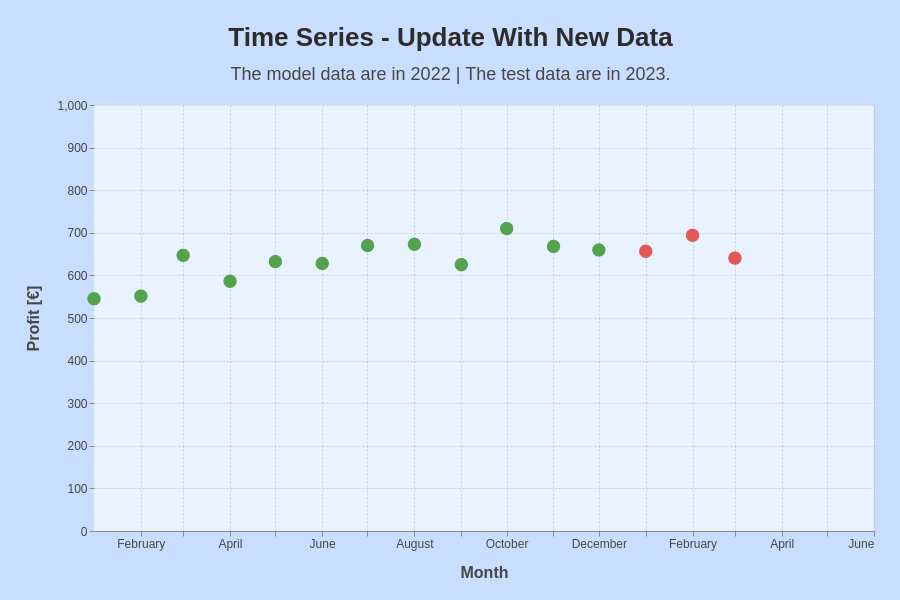
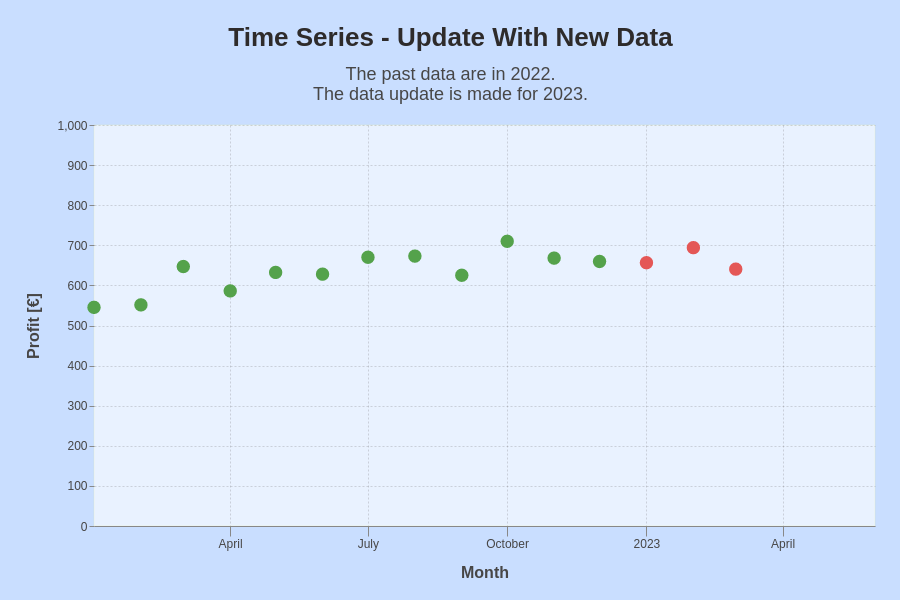
regr

diff --git a/md/28_Timeseries/time_series_30_regression.md b/md/28_Timeseries/time_series_30_regression.md
@@ -1,194 +1,70 @@
 ---
 layout: 20_python
-title: Time Series
+title: Time Series Regression
 permalink: /time_series_regression
 ---
 
-# Altair: Time Series - Lines
+# Time Series - Linear Regression
 
-A standard use case in accounting are the values of accounts over time. You see here three accounts - A, B and C - with artificial data (incl. trend and Gaussian noise)
+The task here is to **assess a regression model using with test data**. Particularly for the use case when at the beginning of a month the data of the previous month are available.
 
+The partiuclar problem here is to **compute the model only with the model data**. Further, the chart should clearly show which data belong to the model and which belong to the test.
+
+
+<br>
 <center>
-{% include images/image.html imagePath = "../assets/images/img_blog/img_altair/Timeseries.png" imageCaption =  ""%}
+{% include images/image.html imagePath = "../assets/images/img_blog/img_altair/TimeseriesUpdatesRegression.png" imageCaption =  ""%}
+<br><br><b>
+A Linear Regression was added to the 'model' data of the time series leading to a forecast. Afterwards, the chart was updated with test data.
+</b><br>
 </center>
+<br>
 
-The chart is based on a theme such that all charts have the same background, grid line width or dash, etc..
+## Solution idea and some details 
+
+### Create file with aggregated, monthly data
+
+The solution here is essentially an extension of the previous example on [Time Series Update](time_series_updates).
+The chart was re-used adding
+- the regression
+- a text chart to display a statistical parameter.
 
 
-### Define a 'Theme'
+### Regression
 
-Using a theme can make your main coding much more concise. A theme is a collection of your choice of recurring chart conigurations.
-You can further change the look of all your charts easily by just making the change once in your theme.
+For the regression, the library 'optimize.curve.fit' of Scipy was used. 
+For details, please go to [Scipy - Optimize Curve Fit](https://docs.scipy.org/doc/scipy/reference/generated/scipy.optimize.curve_fit.html).
 
-You can outsource the theme to an extra file. 
-This extra file essentially contains a function. This function returs a 'configuration'. 
+Cleary, the library has to be imported. This is the only import needed here for the regression.
+>
+    from scipy.optimize import curve_fit
+
+The decisive call is to the function 'curve_fit'
 
 >
-    def myTheme():
-    ...
-    return {
-        'config': {
-            "background": 'white', 
-                    },
-    }
+    popt, pcov2 = curve_fit(LinearFunction, dfTL.X, dfTL.Y)
 
-However, you need to be careful about what to put into a theme, because you might not want all your chart to be identical. You can overwrite though a property set in the theme for your specific chart.
-
-
-### Using a 'Theme'
-
-You need to register and enable the theme such that it affects your chart.
+In this approach, you can freely define a function for the fit. For the linear fit, the function is quite simple.
 
 >
-    from myTheme_file import myTheme
-    alt.themes.register('myTheme', myTheme)
-    alt.themes.enable('myTheme')
+    def LinearFunction(x, a0, a1):
+        y = a0 + a1 * x
+        return y
 
-### Long Format (melt)
 
-I had created a file with time series before and had saved it as a csv file.
-After reading the data into a dataframe, it needs to be converted from wide format to long format.
+The fitting parameters can be obtained from the exported parameter of the optimization, i.e. 'popt'.
 
 >
-    df = df.reset_index().melt(id_vars="Month", var_name="Type", value_name="Measurement")
+    fittingPara = {}
+    fittingPara["a0"] = round(popt[0], 3)
+    fittingPara["a1"] = round(popt[1], 3)   
 
-Altair does not accept the index to be set, thus reset the index during this melt operation.
 
-
-### Height and Width
-
-I sometimes want to change the ratio of the chart depending on the content. This setting worked quite well.
+You get to the forecast using these parameters.
 
 >
-    chart = chart.properties(
-        height=600,   
-        width=900, 
-        autosize=alt.AutoSizeParams(
-            type='fit',
-            contains='padding'
-        ),
-    )    
+    fRL[column] = LinearFunction(dfRL.XF, *popt)
 
 
-### Title and Subtitle
-
-You can specify the text of the title and the subtitle in the chart properties. The formatting of them might mostly go to the theme.
-
->
-    subtitle = ["Subtitle1", "Subtitle2"]
-    title={
-      "text": title, 
-      "subtitle": subtitle,
-    }, 
-
-Great about subtitles: you can have more than one row!
-
-Depending on the specific text for the chart, the title or subtitle often needs to be smaller or larger.
-
->
-    myChart = myChart.configure_title(
-        fontSize=26,
-        subtitleFontSize=18,
-    )    
-
-Issue noted: When an automatically generated subtitle gets too long, the chart is not shown. 
-
-
-### Format the X-Axis for Month
-
-You can choose among different formats. yearmonth, for instance, displays both year and month.
-The data must be in a suitable format, e.g. 2022-01-01. 
-The axis can be scaled using a start date and an end date. 
-
->
-    alt.X(
-        'yearmonth(Month):T', 
-        title="Month",
-        scale=alt.Scale(domain=(startDate, endDate)),
-        ),
-
-
-### Format the Y-Axis
-
-On the y-axis, most importantly you might set manually the scale and the number of ticks.
-
->
-    alt.Y('Measurement:Q', 
-            title="Y-Axis",
-            axis=alt.Axis(tickCount=10),
-            scale=alt.Scale(domain=(0, 2000)),
-            ), 
-
-### Format the Coloring
-
-On the coloring, you might want to set the colors of your choice, e.g. you might want Account_A to be blue. You can enforce the sequence by sort.
-
->
-    alt.Color('Type:O', title="Type", 
-        sort=df.columns.values,
-        scale={"range": [
-            "blue"],
-            "red"],
-            "green"] 
-            ]
-            },
-        ),   
-
-
-The sorting is done along the columns of the dataframe.
-
-### Format the Lines, Points
-
-Formatting of the lines is directly done as parameters of the mark_line command.<br>
-You can set there the opacity level of the line, which softens the colors.<br>
-You can change the line from solid to dashed.<br>
-You can configure a point for the data.
-
->
-    mark_line(
-        opacity=0.85,
-        strokeDash=[4,2],
-        point=alt.OverlayMarkDef(
-            filled=False, 
-            size=80, 
-            fill='white',   
-            ), 
-
-
-### Change the line chart to an area chart
-
-
-All you need to do is to change the decisive command from **mark_line** to **mark_area**.
-
->
-    myChart = alt.Chart(df).mark_area(
-        opacity=0.55,
-        strokeDash=[4,2],
-        point=alt.OverlayMarkDef(
-        filled=False, 
-        size=80, 
-        fill='white',            
-        ), 
-    ).encode(...)
-
-
-All the other coding can remain. There are some specific line features though and some specific area features.
-
-<center>
-{% include images/image.html imagePath = "../assets/images/img_blog/img_altair/TimeseriesArea.png" imageCaption =  ""%}
-</center>
-
-
-The advantage of an area charge is particularly showing implicitely the sum when stacking the areas on top of each other.
-This stacking is done when setting the stack parameter to true.
-
->
-    alt.Y('Measurement:Q', 
-            ...
-            stack=True,
-            ), 
-
-By the way, this area chart is an independent chart from the line chart and it already profits from the re-used theme.            
-
-This concludes the timeseries here. <br>
-But wouldn't it be nice to see some values at the data points? Not all, but some. Interactively?
+Some statistical parameters are returned, e.g. the co-variance matrix. 
+Unfortunately, the value of 'RSquared' (R2) is not returned and you have to compute it manually.
